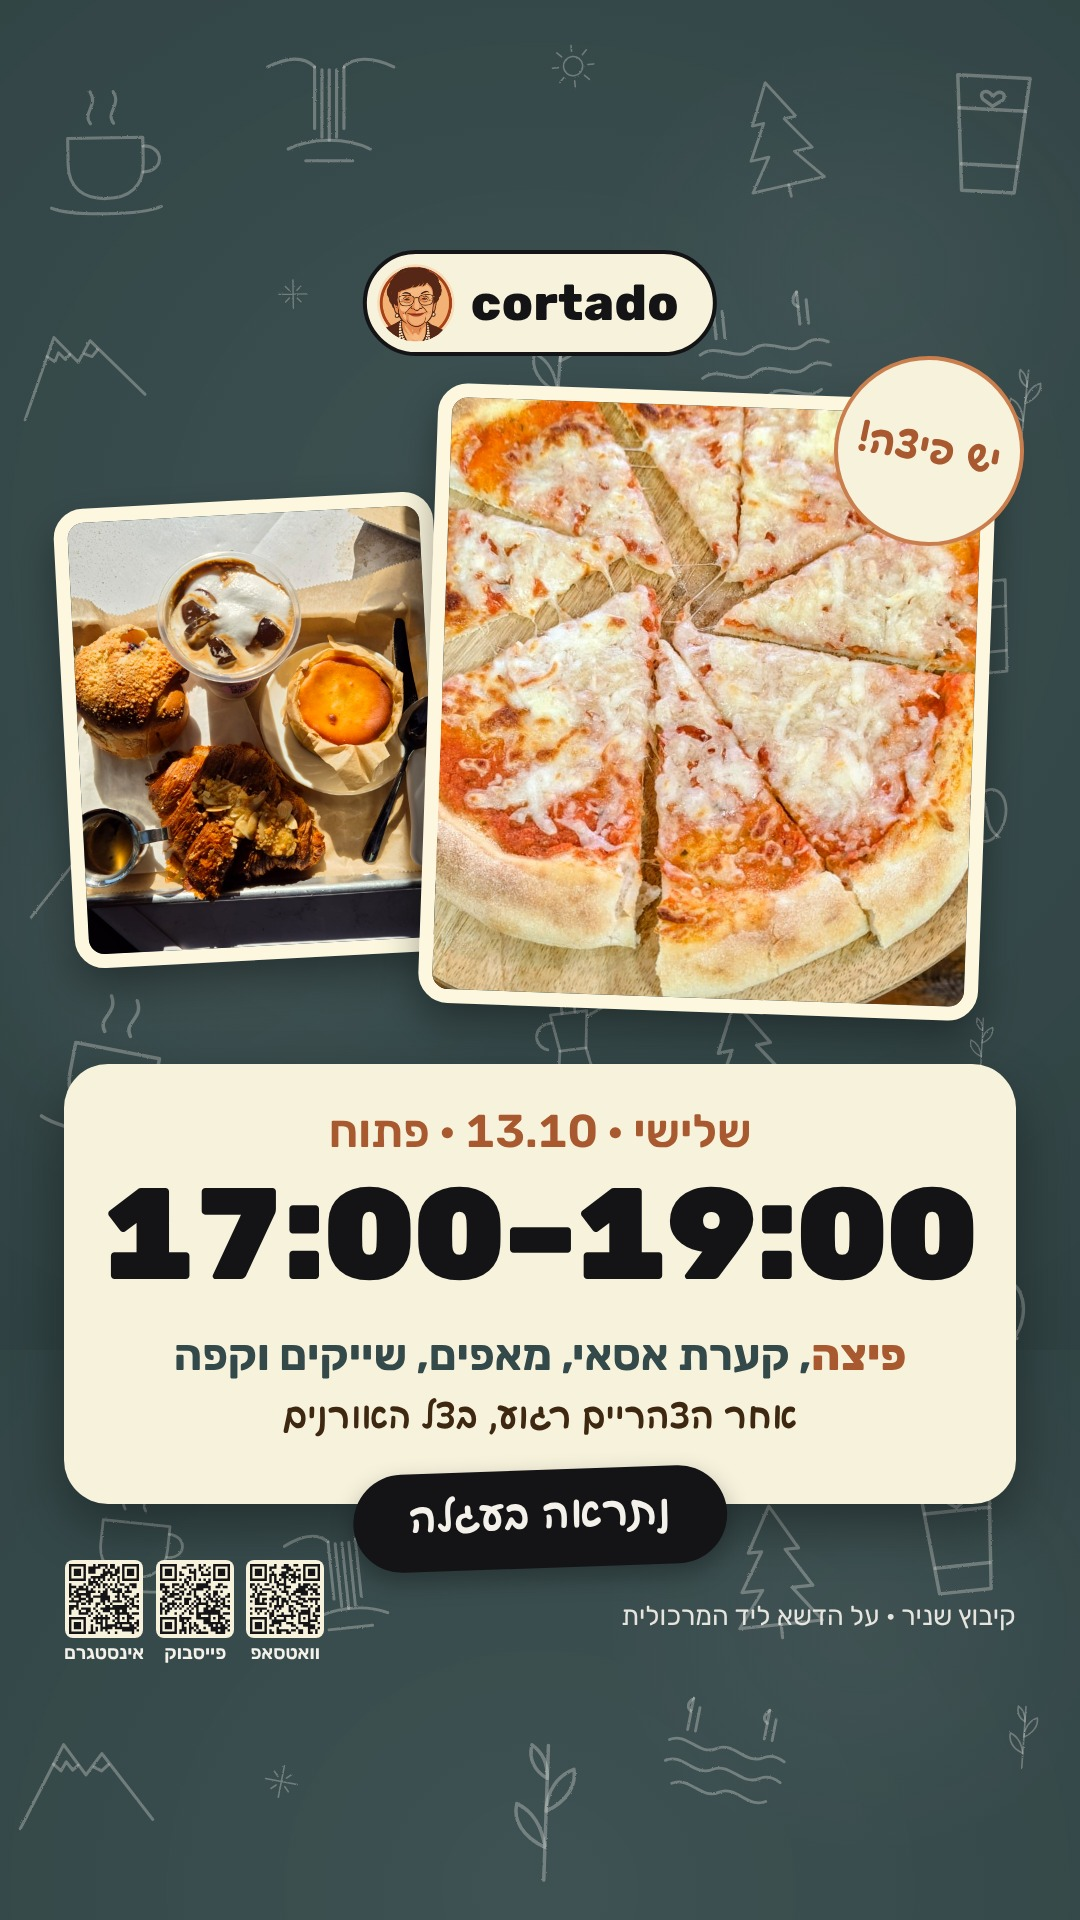
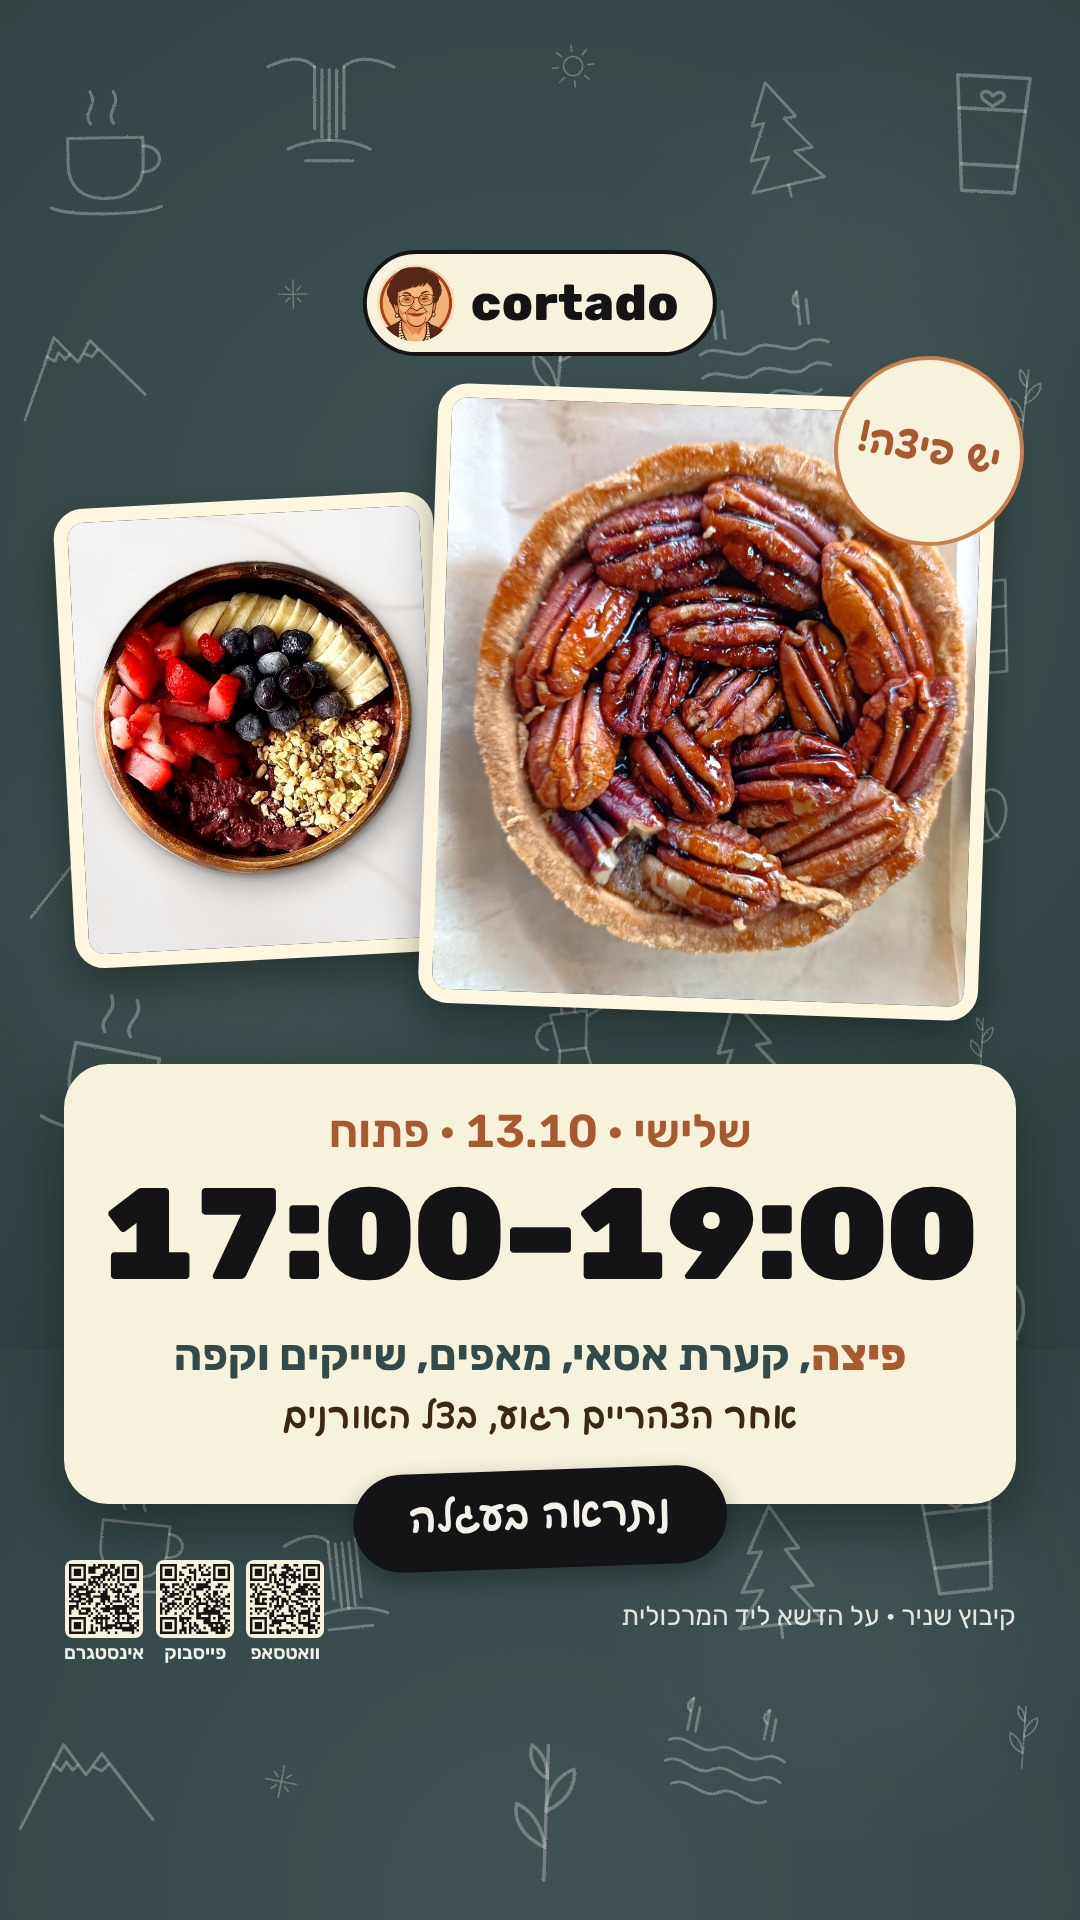
Next-day story: no pizza photo, two rotating food photos
Claude-Session: https://claude.ai/code/session_019QzmPdVBuLLW1qBPRqj2bP

Changed region(s): [[0.0611, 0.1875, 0.9167, 0.5312]]

diff --git a/toolkit/scripts/next_day_story.py b/toolkit/scripts/next_day_story.py
@@ -1,8 +1,8 @@
 """Build the data for the next-day story (template 56) and render it.
 
 Usage: python scripts/next_day_story.py --date 2026-10-12 --hours 17:00–19:00 [09:00–12:00 ...] --out DIR
-Evening day (a range ending 17:00 or later): pizza is the big photo, the small one rotates
-coffee → pastry → acai. Morning-only day: the rotating photo is big, the sandwich small, no pizza.
+Evening day (a range ending 17:00 or later): two photos from two different categories
+(coffee → pastry → acai), "יש פיצה!" sticker and pizza first in the text, but no pizza photo. Morning-only day: the rotating photo is big, the sandwich small, no pizza.
 The rotation state lives in story-rotation.json next to this toolkit, so commit it after a run.
 """
 import argparse, datetime, json, pathlib, subprocess, sys
@@ -19,7 +19,6 @@ POOLS = {
     "coffee": ["cortado-lawn.jpg", "coffee-2.jpg", "coffee-3.jpg"],
     "pastry": ["pastry-tray.jpg", "pastry-2.jpg", "pastry-4.jpg"],
     "acai": ["acai.jpg"],  # the owner's one bowl photo (10.10.2026)
-    "pizza": ["pizza-2.jpg"],  # cropped to the pizza only, no person (10.10.2026)
 }
 CATS = ["coffee", "pastry", "acai"]
 DAYS = ["שני", "שלישי", "רביעי", "חמישי", "שישי", "שבת", "ראשון"]  # date.weekday() order
@@ -41,7 +40,9 @@ def story(date, ranges, state):
     evening = max(ends) >= 17
     s = {"day": DAYS[date.weekday()], "date": f"{date.day}.{date.month}", "hours": ranges}
     if evening:
-        s.update(main=take(state, "pizza"), second=pick, sticker="יש פיצה!",
+        # owner 10.10.2026: no pizza photo; pizza stays in the sticker and the text
+        other = CATS[(CATS.index(cat) + 1) % len(CATS)]
+        s.update(main=pick, second=take(state, other), sticker="יש פיצה!",
                  sub="<b>פיצה</b>, קערת אסאי, מאפים, שייקים וקפה")
     else:
         s.update(main=pick, second="sandwich.jpg", sub="קפה, כריכים, מאפים ושייקים")
@@ -73,8 +74,9 @@ def main():
 if __name__ == "__main__":
     # self-check: categories turn, photos inside a category turn, no photo repeats early
     st, d = {}, datetime.date(2026, 10, 12)
-    seen = [story(d, ["17:00–19:00"], st)["second"] for _ in range(6)]
-    assert seen[:3] == ["cortado-lawn.jpg", "pastry-tray.jpg", "acai.jpg"], seen
-    assert seen[3:] == ["coffee-2.jpg", "pastry-2.jpg", "acai.jpg"], seen
+    seen = [story(d, ["17:00–19:00"], st) for _ in range(3)]
+    assert [x["main"] for x in seen] == ["cortado-lawn.jpg", "pastry-2.jpg", "acai.jpg"], seen
+    assert [x["second"] for x in seen] == ["pastry-tray.jpg", "acai.jpg", "coffee-2.jpg"], seen
+    assert all("pizza" not in x["main"] + x["second"] for x in seen)
     assert all((ROOT / "assets/photos" / f).exists() for v in POOLS.values() for f in v)
     main()
